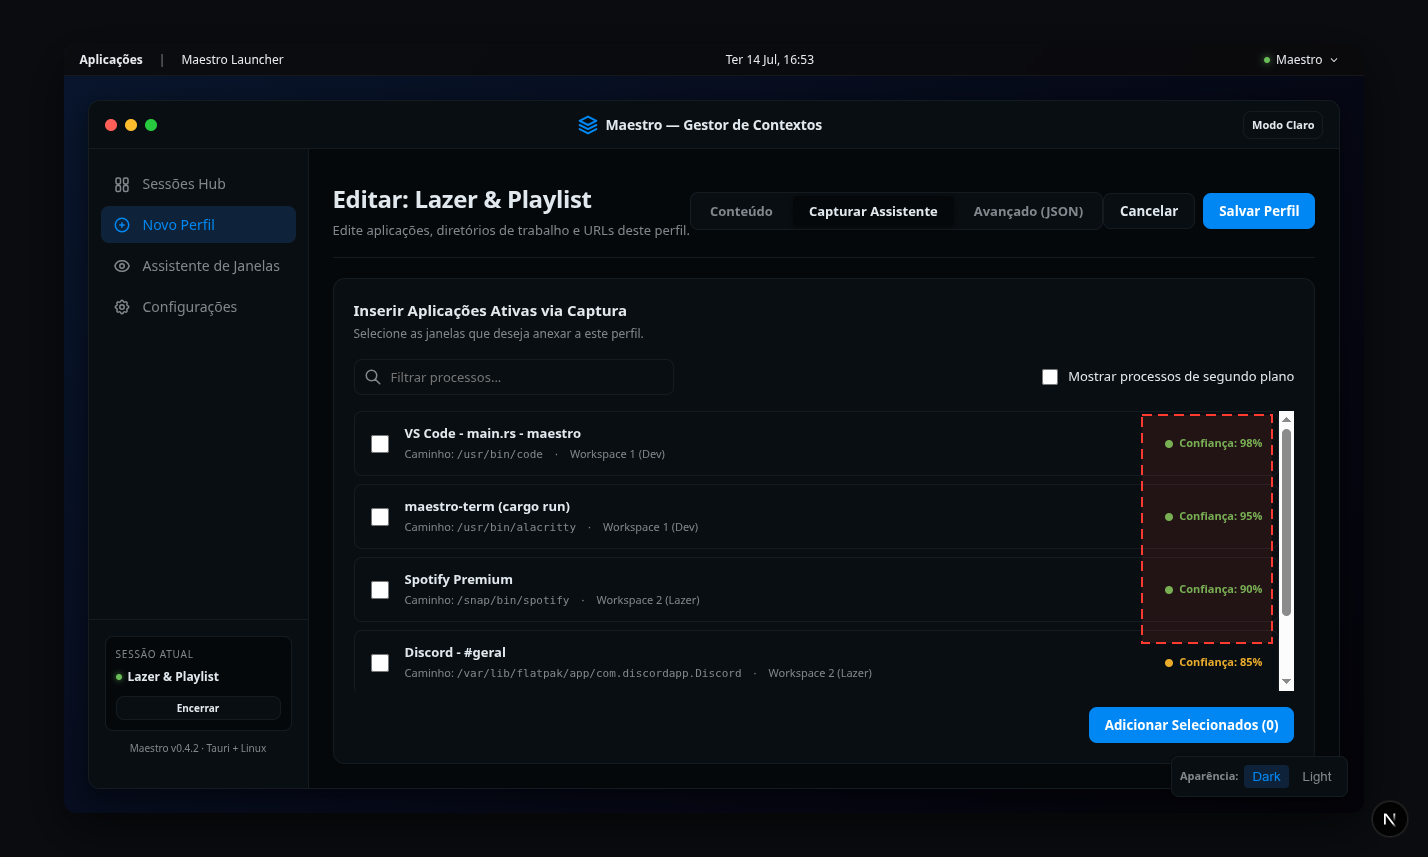
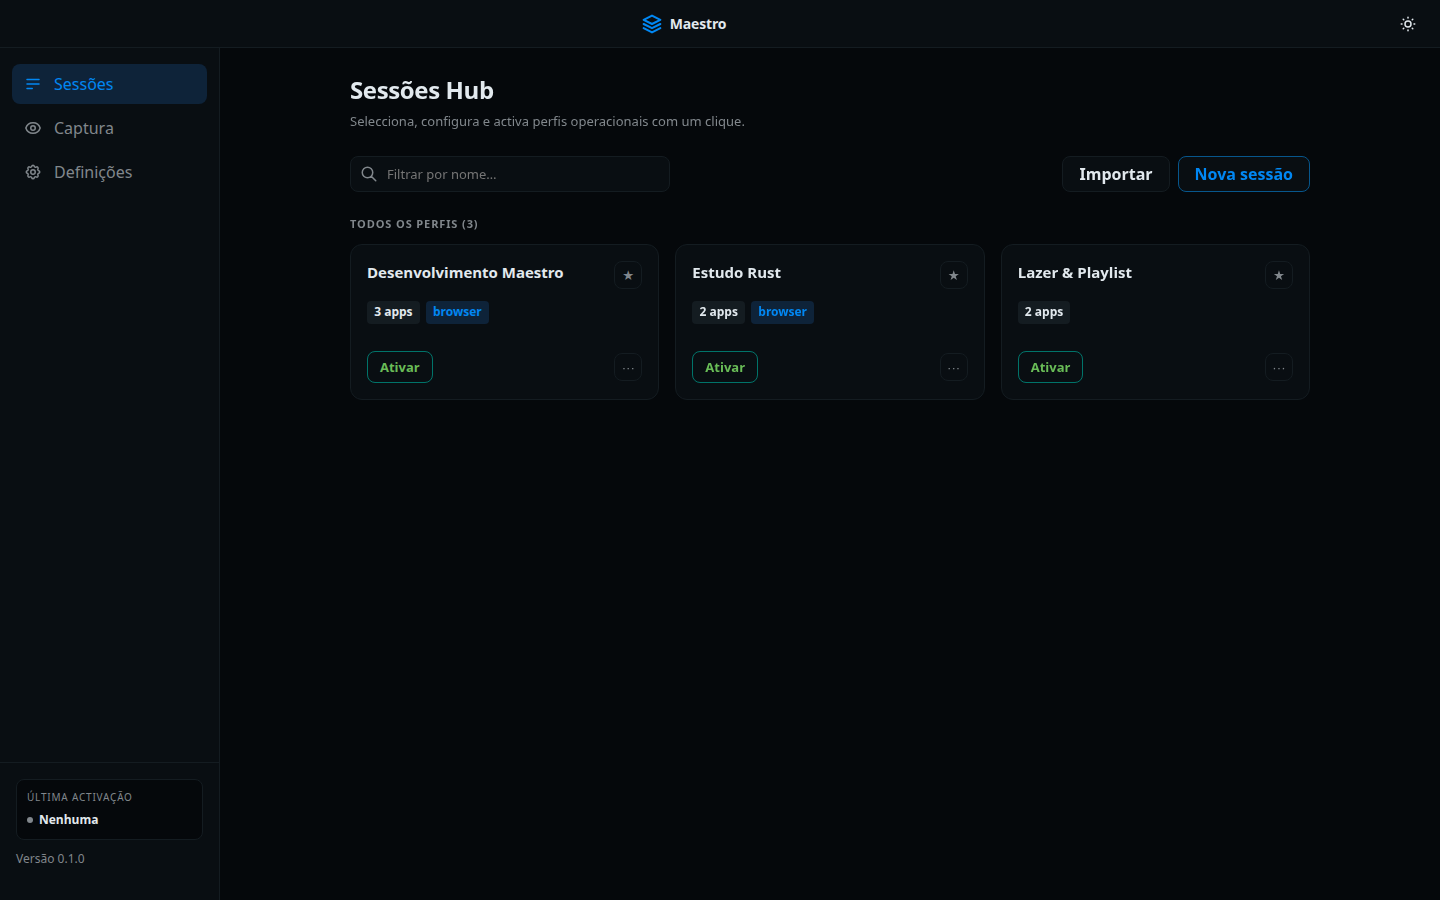
Replace portfolio screenshots with current Maestro UI captures.
Swap the outdated design mock for hub/capture/activation/settings shots and document how to regenerate them.

diff --git a/docs/screenshots/README.md b/docs/screenshots/README.md
@@ -1,29 +1,31 @@
 # Screenshots
 
-Portfolio visuals for the README. Prefer real captures from a running build on Pop!_OS / Cosmic when possible.
+Live UI captures of Maestro (React shell at 1440×900, dark theme, pt-PT). Regenerated from the running Vite UI with a mocked Tauri IPC layer so catalog / capture / activation look filled without personal paths.
 
 ## Status
 
 | Asset | Status | Notes |
 |-------|--------|-------|
-| `hub.png` | Present (interim) | From design handoff; replace with a live app capture when convenient |
-| `capture.png` | Pending | Standalone Captura assistant |
-| `activation-overlay.png` | Pending | Activation / preview results overlay |
+| `hub.png` | Current | Sessões hub with profile cards |
+| `capture.png` | Current | Assistente de captura (workspaces) |
+| `activation-overlay.png` | Current | Terminal results after **Ativar** |
+| `settings.png` | Current | Definições (Geral / Sessões / Avançado) |
 
-Place PNG (or GIF) files in this folder using the names above, then the README links will resolve.
+## Regenerate
 
-> Capture and activation overlay shots wait on convenient live captures. Hub is covered by an interim design asset so the README image path resolves.
+With `npm run tauri dev` (or at least `npm run dev` on port 1420):
 
-## Capture checklist
+```bash
+# one-time if needed
+npm install --no-save puppeteer-core
+node scripts/capture-portfolio-screenshots.mjs
+```
 
-1. Run `npm run tauri dev` (or a release build) on a desktop that matches the target look.
-2. Use a clean demo catalog (a few named profiles; avoid personal paths in the shot).
-3. Prefer light or dark theme consistently across shots; 1440×900 or similar is fine.
-4. Capture:
-   - [ ] **Hub** — Sessões hub with at least one profile card visible → save as `hub.png`
-   - [ ] **Capture** — Captura list with candidates → `capture.png`
-   - [ ] **Activation overlay** — After **Ativar**, results timeline visible → `activation-overlay.png`
-5. Crop to the app window (no unrelated desktop clutter).
-6. Commit the PNGs and tick the rows in the Status table above.
+## Capture checklist (native window)
 
-Prototype reference (layout only): `design/maestro-desktop-prototype.html`.
+Prefer these when replacing with a real Tauri window shot:
+
+1. Run `npm run tauri dev` on Pop!_OS / Cosmic.
+2. Use a clean demo catalog (no personal absolute paths in the shot if possible).
+3. Capture hub, captura, activation overlay, and optionally Definições.
+4. Crop to the app window; keep theme consistent across shots.

diff --git a/README.md b/README.md
@@ -26,15 +26,15 @@ Clearing the sidebar “última activação” label only resets UI state — la
 
 ## Screenshots
 
-![Session hub](docs/screenshots/hub.png)
+| Session hub | Capture assistant |
+|-------------|-------------------|
+| ![Hub](docs/screenshots/hub.png) | ![Capture](docs/screenshots/capture.png) |
 
-More surfaces and a capture checklist: [`docs/screenshots/`](docs/screenshots/).
+| Activation results | Settings |
+|--------------------|----------|
+| ![Activation](docs/screenshots/activation-overlay.png) | ![Settings](docs/screenshots/settings.png) |
 
-| Surface | File |
-|---------|------|
-| Session hub | [`docs/screenshots/hub.png`](docs/screenshots/hub.png) *(interim design asset — replace with live capture)* |
-| Capture assistant | [`docs/screenshots/capture.png`](docs/screenshots/capture.png) *(when available)* |
-| Activation results | [`docs/screenshots/activation-overlay.png`](docs/screenshots/activation-overlay.png) *(when available)* |
+Notes and regenerate script: [`docs/screenshots/`](docs/screenshots/).
 
 ## Stack
 

diff --git a/docs/smoke-test-checklist.md b/docs/smoke-test-checklist.md
@@ -17,7 +17,7 @@ Compare against `design/maestro-desktop-prototype.html` (inner app window only, 
 - [ ] **1440×900** — hub cards, sidebar, header match prototype layout.
 - [ ] **1366×768**, **1024×768** — no horizontal scroll; drawer sidebar below 900px width.
 - [ ] **390×844**, **360×800** — mobile drawer navigation usable.
-- [ ] Optional: refresh `docs/screenshots/hub.png` (and capture/overlay shots) from a live build per the screenshots checklist.
+- [ ] Optional: refresh `docs/screenshots/*.png` from a live build (`node scripts/capture-portfolio-screenshots.mjs` with Vite on :1420, or native window shots per [docs/screenshots/README.md](./screenshots/README.md)).
 
 ## 2. Settings
 
